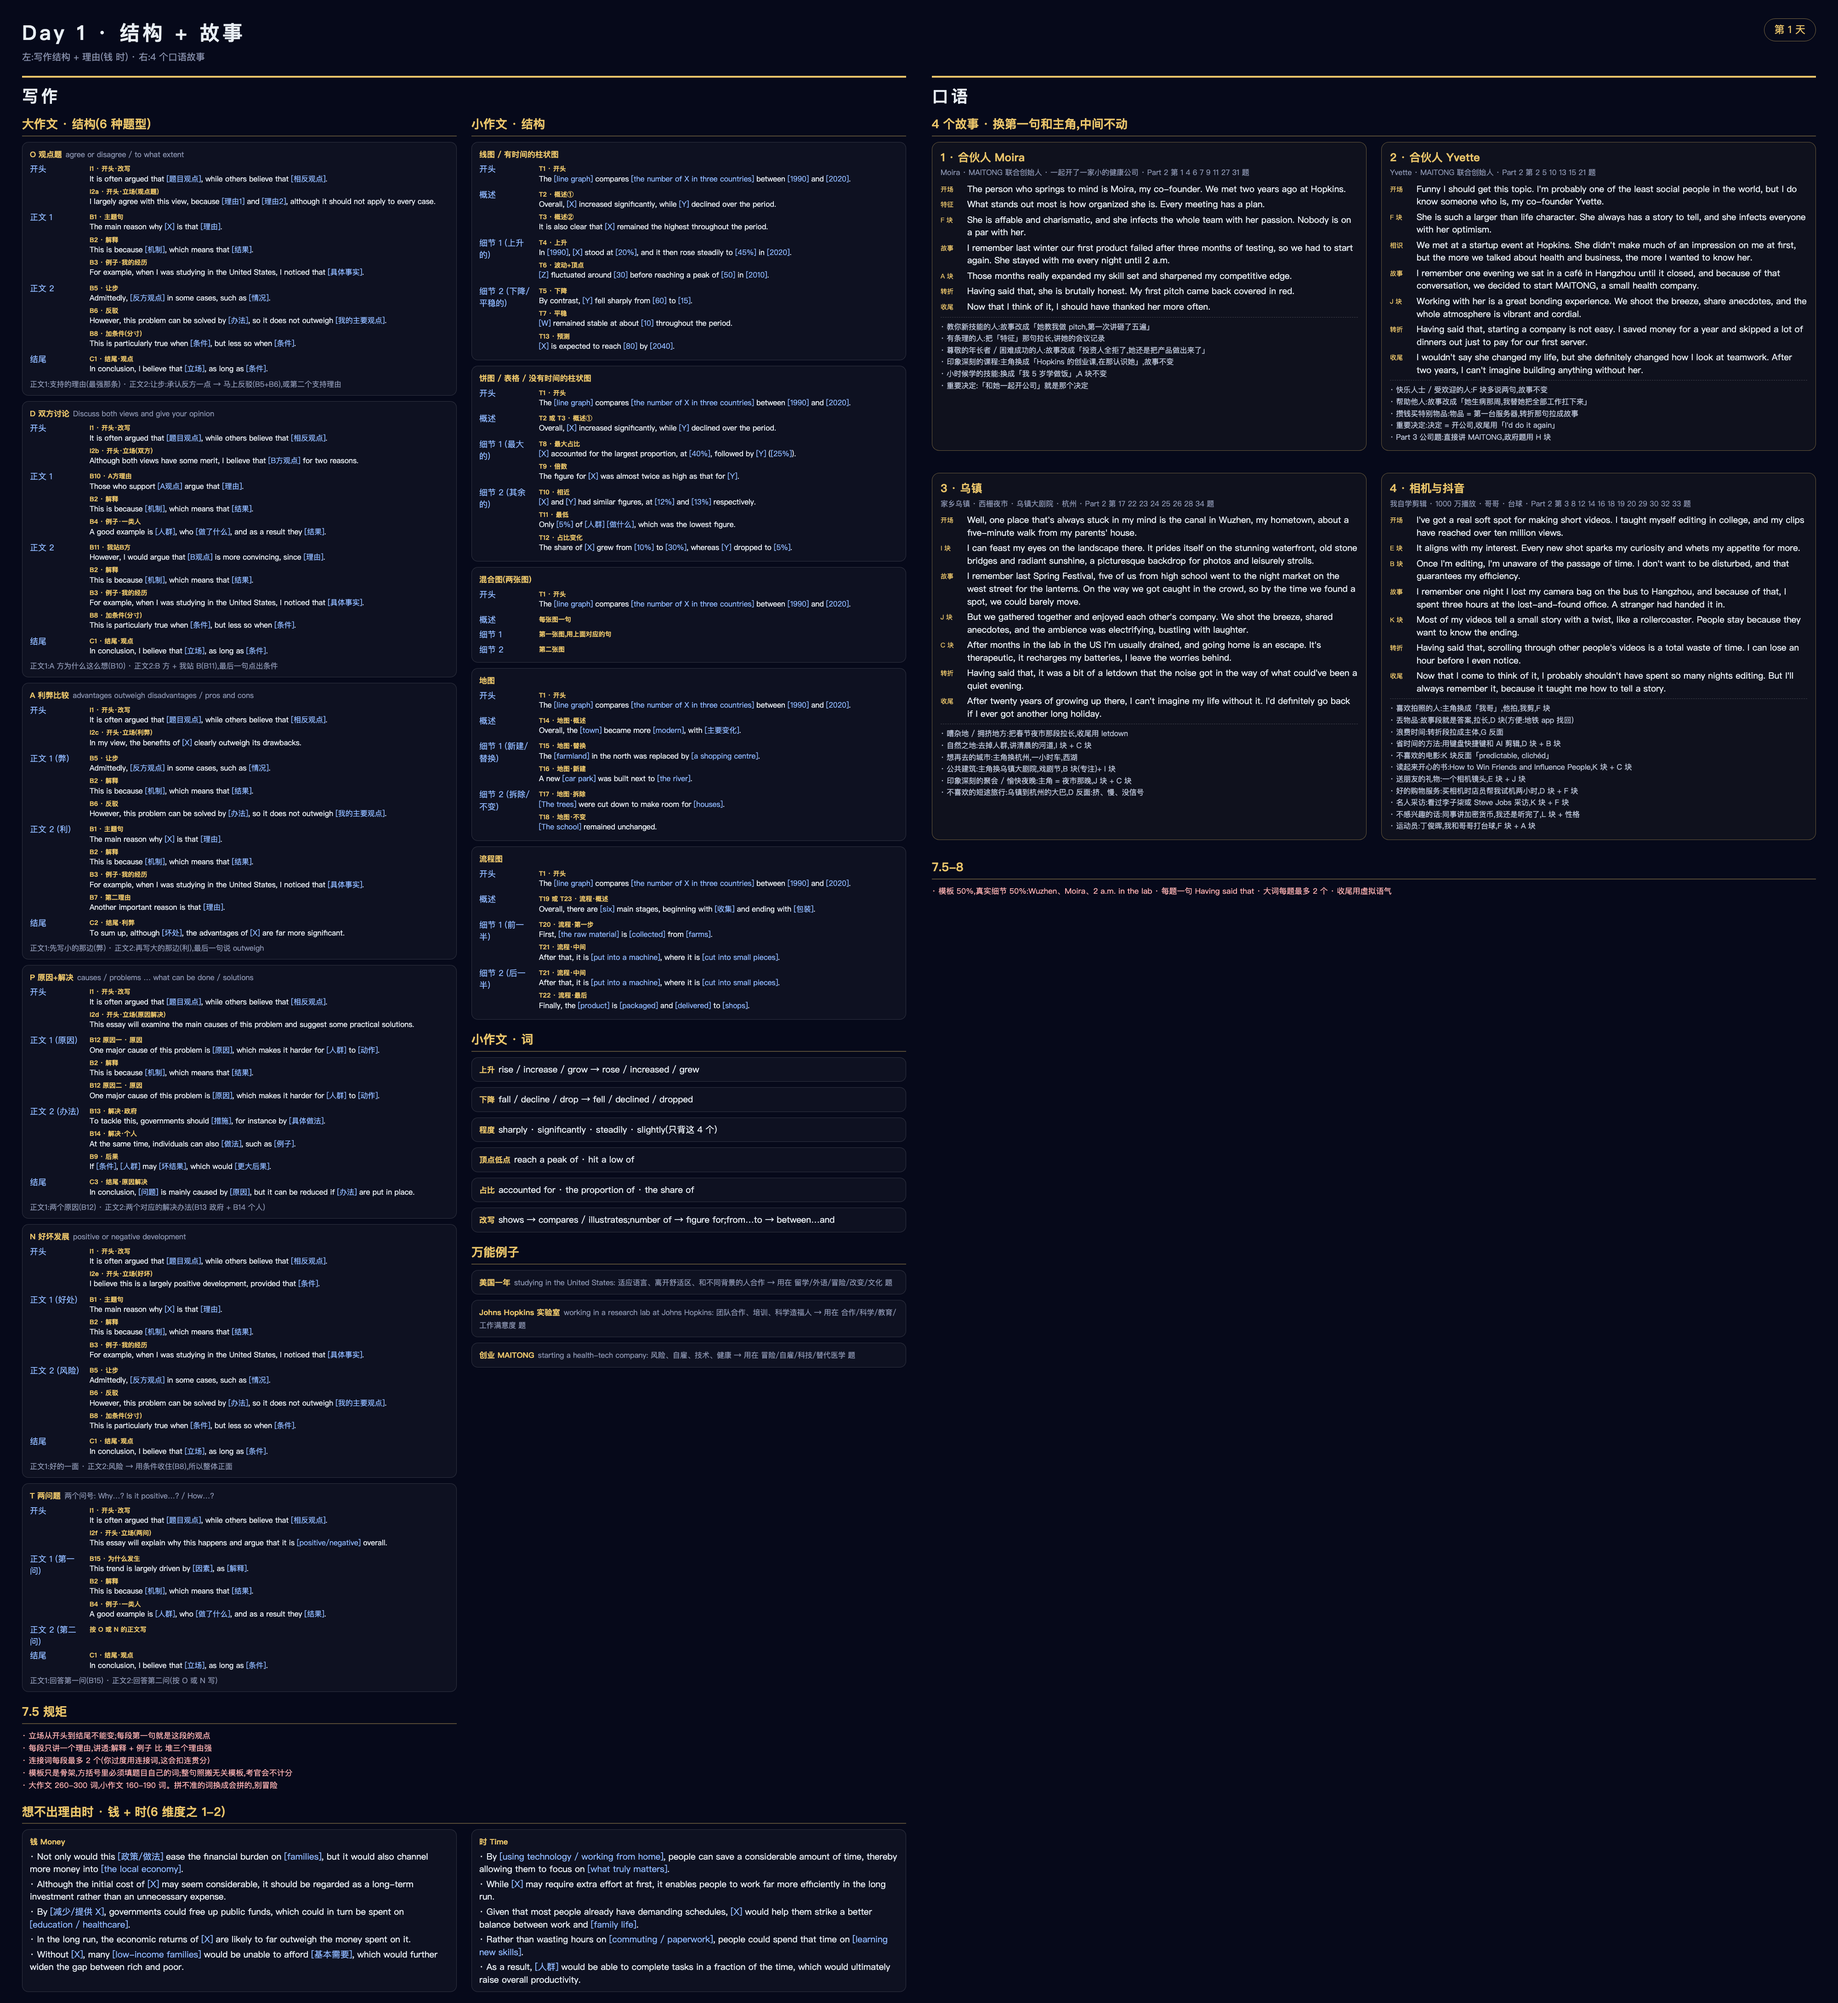
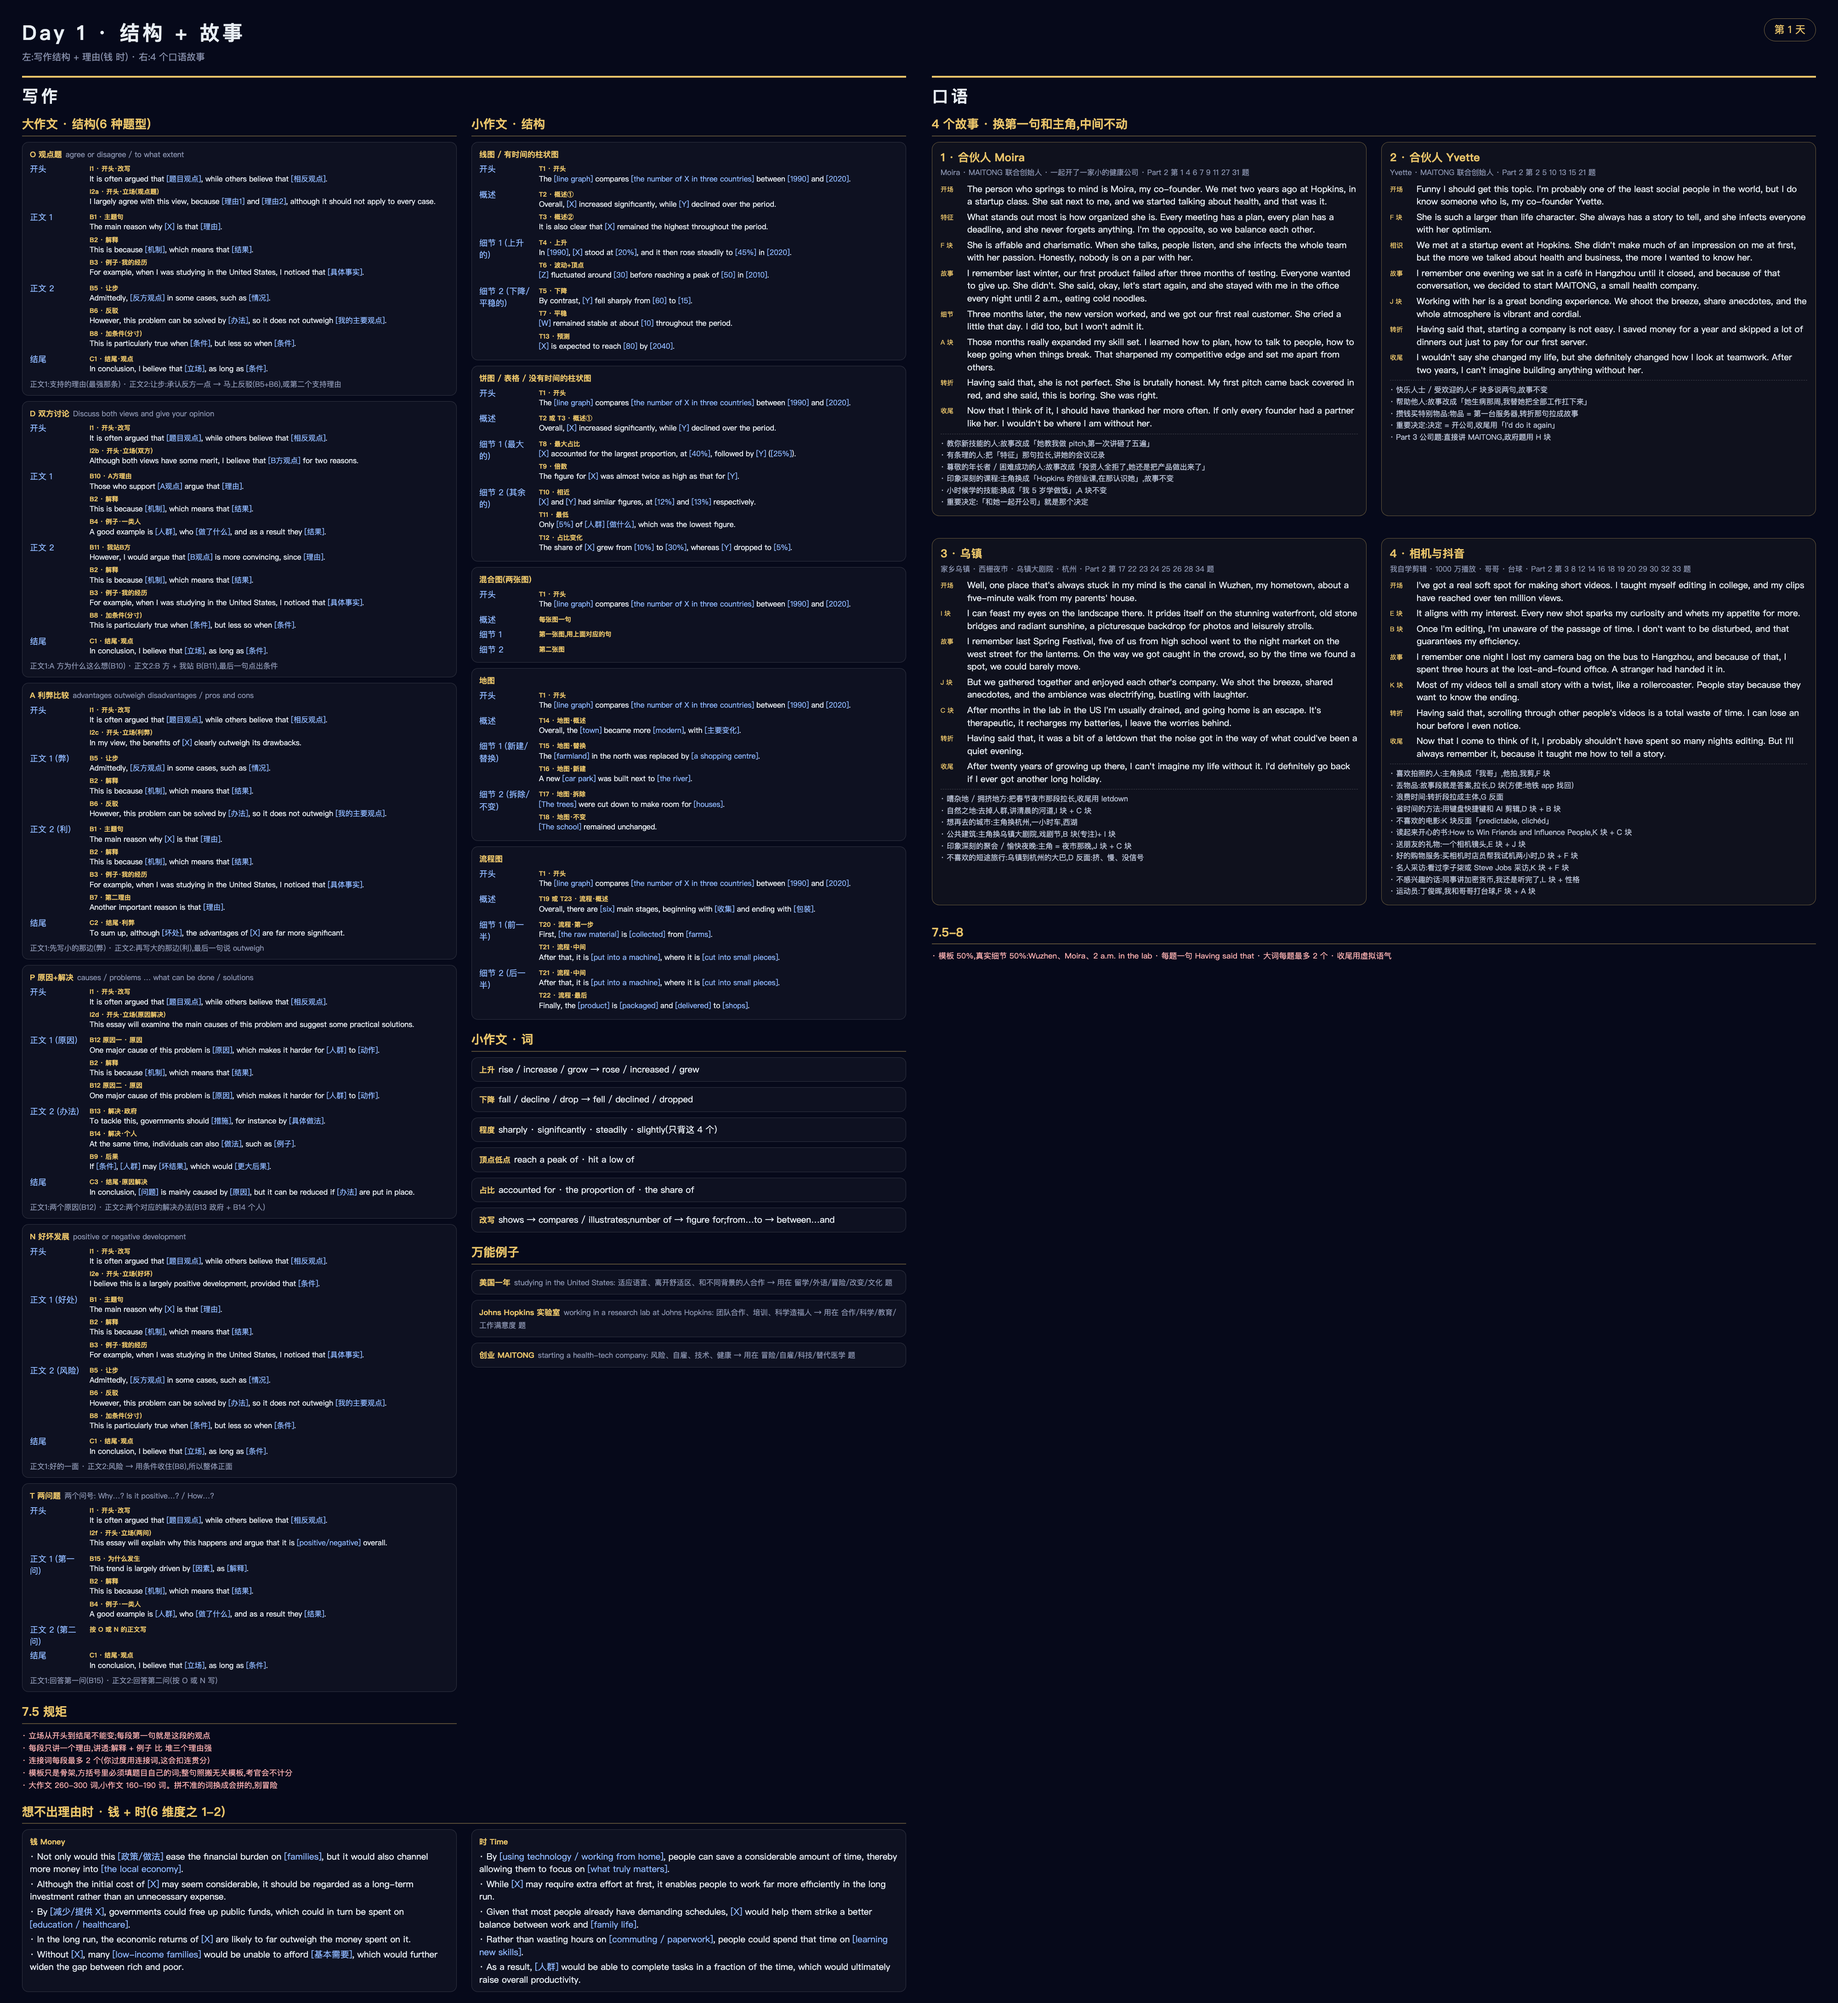
Moira 故事:简单词但内容加满到 2 分钟

Changed region(s): [[0.5, 0.0936, 0.7188, 0.4368], [0.75, 0.2496, 0.9688, 0.468]]

diff --git a/posters/1_结构与故事.html b/posters/1_结构与故事.html
@@ -58,7 +58,7 @@ td.b{color:#8fb8ff;white-space:nowrap}
 </div></div><h2 class="mt">想不出理由时 · 钱 + 时(6 维度之 1-2)</h2>
 <div class="cols"><div class="box"><span class="k">钱 Money</span><div style="margin-top:5px">· Not only would this <em>[政策/做法]</em> ease the financial burden on <em>[families]</em>, but it would also channel more money into <em>[the local economy]</em>.</div><div style="margin-top:5px">· Although the initial cost of <em>[X]</em> may seem considerable, it should be regarded as a long-term investment rather than an unnecessary expense.</div><div style="margin-top:5px">· By <em>[减少/提供 X]</em>, governments could free up public funds, which could in turn be spent on <em>[education / healthcare]</em>.</div><div style="margin-top:5px">· In the long run, the economic returns of <em>[X]</em> are likely to far outweigh the money spent on it.</div><div style="margin-top:5px">· Without <em>[X]</em>, many <em>[low-income families]</em> would be unable to afford <em>[基本需要]</em>, which would further widen the gap between rich and poor.</div></div><div class="box"><span class="k">时 Time</span><div style="margin-top:5px">· By <em>[using technology / working from home]</em>, people can save a considerable amount of time, thereby allowing them to focus on <em>[what truly matters]</em>.</div><div style="margin-top:5px">· While <em>[X]</em> may require extra effort at first, it enables people to work far more efficiently in the long run.</div><div style="margin-top:5px">· Given that most people already have demanding schedules, <em>[X]</em> would help them strike a better balance between work and <em>[family life]</em>.</div><div style="margin-top:5px">· Rather than wasting hours on <em>[commuting / paperwork]</em>, people could spend that time on <em>[learning new skills]</em>.</div><div style="margin-top:5px">· As a result, <em>[人群]</em> would be able to complete tasks in a fraction of the time, which would ultimately raise overall productivity.</div></div></div></div><div><h1>口语</h1><h2>4 个故事 · 换第一句和主角,中间不动</h2>
 <div class="cols"><div class="story"><h3>1 · 合伙人 Moira</h3><div class="who">Moira · MAITONG 联合创始人 · 一起开了一家小的健康公司 · Part 2 第 1 4 6 7 9 11 27 31 题</div>
- <div class="ln"><i>开场</i><span>The person who springs to mind is Moira, my co-founder. We met two years ago at Hopkins.</span></div><div class="ln"><i>特征</i><span>What stands out most is how organized she is. Every meeting has a plan.</span></div><div class="ln"><i>F 块</i><span>She is affable and charismatic, and she infects the whole team with her passion. Nobody is on a par with her.</span></div><div class="ln"><i>故事</i><span>I remember last winter our first product failed after three months of testing, so we had to start again. She stayed with me every night until 2 a.m.</span></div><div class="ln"><i>A 块</i><span>Those months really expanded my skill set and sharpened my competitive edge.</span></div><div class="ln"><i>转折</i><span>Having said that, she is brutally honest. My first pitch came back covered in red.</span></div><div class="ln"><i>收尾</i><span>Now that I think of it, I should have thanked her more often.</span></div>
+ <div class="ln"><i>开场</i><span>The person who springs to mind is Moira, my co-founder. We met two years ago at Hopkins, in a startup class. She sat next to me, and we started talking about health, and that was it.</span></div><div class="ln"><i>特征</i><span>What stands out most is how organized she is. Every meeting has a plan, every plan has a deadline, and she never forgets anything. I'm the opposite, so we balance each other.</span></div><div class="ln"><i>F 块</i><span>She is affable and charismatic. When she talks, people listen, and she infects the whole team with her passion. Honestly, nobody is on a par with her.</span></div><div class="ln"><i>故事</i><span>I remember last winter, our first product failed after three months of testing. Everyone wanted to give up. She didn't. She said, okay, let's start again, and she stayed with me in the office every night until 2 a.m., eating cold noodles.</span></div><div class="ln"><i>细节</i><span>Three months later, the new version worked, and we got our first real customer. She cried a little that day. I did too, but I won't admit it.</span></div><div class="ln"><i>A 块</i><span>Those months really expanded my skill set. I learned how to plan, how to talk to people, how to keep going when things break. That sharpened my competitive edge and set me apart from others.</span></div><div class="ln"><i>转折</i><span>Having said that, she is not perfect. She is brutally honest. My first pitch came back covered in red, and she said, this is boring. She was right.</span></div><div class="ln"><i>收尾</i><span>Now that I think of it, I should have thanked her more often. If only every founder had a partner like her. I wouldn't be where I am without her.</span></div>
  <div class="sw">· 教你新技能的人:故事改成「她教我做 pitch,第一次讲砸了五遍」<br>· 有条理的人:把「特征」那句拉长,讲她的会议记录<br>· 尊敬的年长者 / 困难成功的人:故事改成「投资人全拒了,她还是把产品做出来了」<br>· 印象深刻的课程:主角换成「Hopkins 的创业课,在那认识她」,故事不变<br>· 小时候学的技能:换成「我 5 岁学做饭」,A 块不变<br>· 重要决定:「和她一起开公司」就是那个决定</div></div><div class="story"><h3>2 · 合伙人 Yvette</h3><div class="who">Yvette · MAITONG 联合创始人 · Part 2 第 2 5 10 13 15 21 题</div>
  <div class="ln"><i>开场</i><span>Funny I should get this topic. I'm probably one of the least social people in the world, but I do know someone who is, my co-founder Yvette.</span></div><div class="ln"><i>F 块</i><span>She is such a larger than life character. She always has a story to tell, and she infects everyone with her optimism.</span></div><div class="ln"><i>相识</i><span>We met at a startup event at Hopkins. She didn't make much of an impression on me at first, but the more we talked about health and business, the more I wanted to know her.</span></div><div class="ln"><i>故事</i><span>I remember one evening we sat in a café in Hangzhou until it closed, and because of that conversation, we decided to start MAITONG, a small health company.</span></div><div class="ln"><i>J 块</i><span>Working with her is a great bonding experience. We shoot the breeze, share anecdotes, and the whole atmosphere is vibrant and cordial.</span></div><div class="ln"><i>转折</i><span>Having said that, starting a company is not easy. I saved money for a year and skipped a lot of dinners out just to pay for our first server.</span></div><div class="ln"><i>收尾</i><span>I wouldn't say she changed my life, but she definitely changed how I look at teamwork. After two years, I can't imagine building anything without her.</span></div>
  <div class="sw">· 快乐人士 / 受欢迎的人:F 块多说两句,故事不变<br>· 帮助他人:故事改成「她生病那周,我替她把全部工作扛下来」<br>· 攒钱买特别物品:物品 = 第一台服务器,转折那句拉成故事<br>· 重要决定:决定 = 开公司,收尾用「I'd do it again」<br>· Part 3 公司题:直接讲 MAITONG,政府题用 H 块</div></div><div class="story"><h3>3 · 乌镇</h3><div class="who">家乡乌镇 · 西栅夜市 · 乌镇大剧院 · 杭州 · Part 2 第 17 22 23 24 25 26 28 34 题</div>

diff --git a/speak-data.js b/speak-data.js
@@ -4,13 +4,14 @@ stories: [
 id: 1, name: "合伙人 Moira", who: "Moira · MAITONG 联合创始人 · 一起开了一家小的健康公司",
  cover: "人物题(教技能 / 有条理 / 年长者 / 困难成功 / 历史) · 课程 · 小时候的技能 · 重要决定",
  lines: [
-  ["开场", "The person who springs to mind is Moira, my co-founder. We met two years ago at Hopkins."],
-  ["特征", "What stands out most is how organized she is. Every meeting has a plan."],
-  ["F 块", "She is affable and charismatic, and she infects the whole team with her passion. Nobody is on a par with her."],
-  ["故事", "I remember last winter our first product failed after three months of testing, so we had to start again. She stayed with me every night until 2 a.m."],
-  ["A 块", "Those months really expanded my skill set and sharpened my competitive edge."],
-  ["转折", "Having said that, she is brutally honest. My first pitch came back covered in red."],
-  ["收尾", "Now that I think of it, I should have thanked her more often."]
+  ["开场", "The person who springs to mind is Moira, my co-founder. We met two years ago at Hopkins, in a startup class. She sat next to me, and we started talking about health, and that was it."],
+  ["特征", "What stands out most is how organized she is. Every meeting has a plan, every plan has a deadline, and she never forgets anything. I'm the opposite, so we balance each other."],
+  ["F 块", "She is affable and charismatic. When she talks, people listen, and she infects the whole team with her passion. Honestly, nobody is on a par with her."],
+  ["故事", "I remember last winter, our first product failed after three months of testing. Everyone wanted to give up. She didn't. She said, okay, let's start again, and she stayed with me in the office every night until 2 a.m., eating cold noodles."],
+  ["细节", "Three months later, the new version worked, and we got our first real customer. She cried a little that day. I did too, but I won't admit it."],
+  ["A 块", "Those months really expanded my skill set. I learned how to plan, how to talk to people, how to keep going when things break. That sharpened my competitive edge and set me apart from others."],
+  ["转折", "Having said that, she is not perfect. She is brutally honest. My first pitch came back covered in red, and she said, this is boring. She was right."],
+  ["收尾", "Now that I think of it, I should have thanked her more often. If only every founder had a partner like her. I wouldn't be where I am without her."]
  ],
  swap: [
   "教你新技能的人:故事改成「她教我做 pitch,第一次讲砸了五遍」",

diff --git a/sw.js b/sw.js
@@ -1,4 +1,4 @@
-const V = 'mmb-v30';
+const V = 'mmb-v31';
 const FILES = ['./', './index.html', './apple-touch-icon.png', './icon-192.png', './icon-512.png', './models.html', './polya.html', './drill.html', './english.html', './spell.html', './spell-data.js', './spell-v1map.js', './writing.html', './writing-data.js', './speak.html', './speak-data.js', './su/math.html', './su/code.html', './su/engine.js', './su/base.css', './su/map.css', './su/star.js',
                './immune/map.html', './immune/api.js', './immune/base.css', './immune/star.js', './immune/nodes.json', './immune/fig.html', './vendor/pdf.min.mjs', './vendor/pdf.worker.min.mjs',
                './icon.svg', './manifest.webmanifest'];
